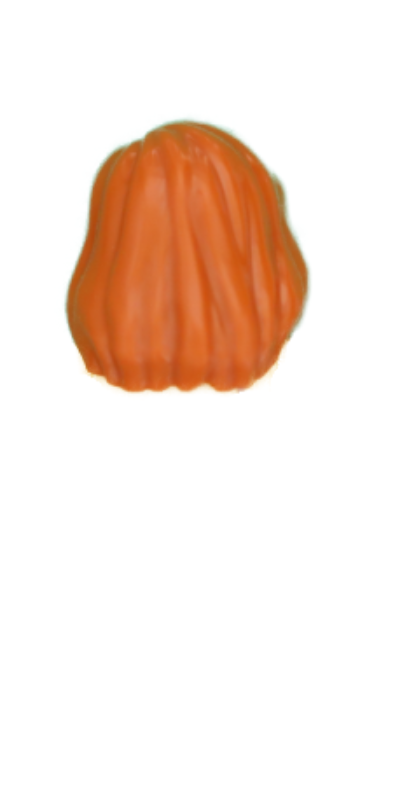
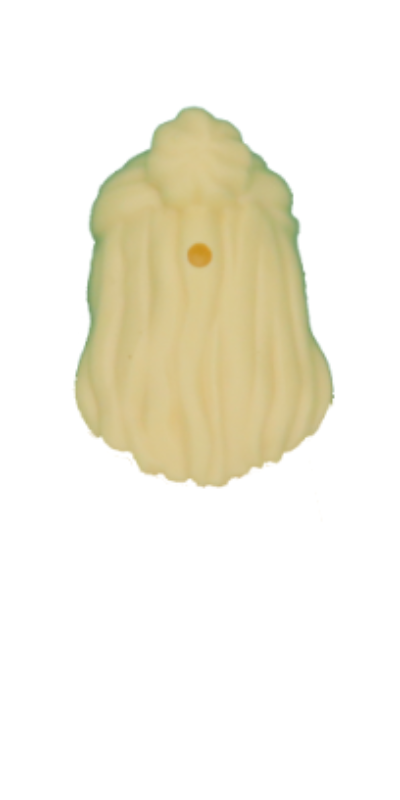
Add back image support and replace `.jpg` assets with `.png` in `LegoPreviewCard`
- Introduce `imageUrlBack` property for wigs and heads to support back image previews.
- Replace `.jpg` assets with `.png` for better visual consistency and remove deprecated files.

Changed region(s): [[0.15, 0.125, 0.84, 0.625]]

diff --git a/src/components/home/LegoPreviewCard.tsx b/src/components/home/LegoPreviewCard.tsx
@@ -190,12 +190,23 @@ export default function LegoPreviewCard({
                     imageUrl: "/preview/hair-1.png",
                     imageUrlBack: "/preview/hair-1-back.png"
                 },
-                {id: 6527259, name: "MINI WIG, NO. 99", imageUrl: "/preview/hair-2.jpg"},
-                {id: 6529258, name: "MINI WIG, NO. 101", imageUrl: "/preview/hair-3.jpg"}
+                {
+                    id: 6527259, name: "MINI WIG, NO. 99", imageUrl: "/preview/hair-2.png",
+                    imageUrlBack: "/preview/hair-2-back.png"
+                },
+                {
+                    id: 6529258, name: "MINI WIG, NO. 101", imageUrl: "/preview/hair-3.png",
+                    imageUrlBack: "/preview/hair-3-back.png"
+                }
             ],
             head: [
                 {id: 1, name: "Happy Face", imageUrl: "/preview/head-1.png", imageUrlBack: "/preview/head-1-back.png"},
-                {id: 2, name: "Serious Face", imageUrl: "/preview/head-2.jpg"},
+                {
+                    id: 2,
+                    name: "Serious Face",
+                    imageUrl: "/preview/head-2.png",
+                    imageUrlBack: "/preview/head-2-back.png"
+                },
                 {id: 3, name: "Smiling Face", imageUrl: "/preview/head-3.jpg"}
             ],
             body: [
